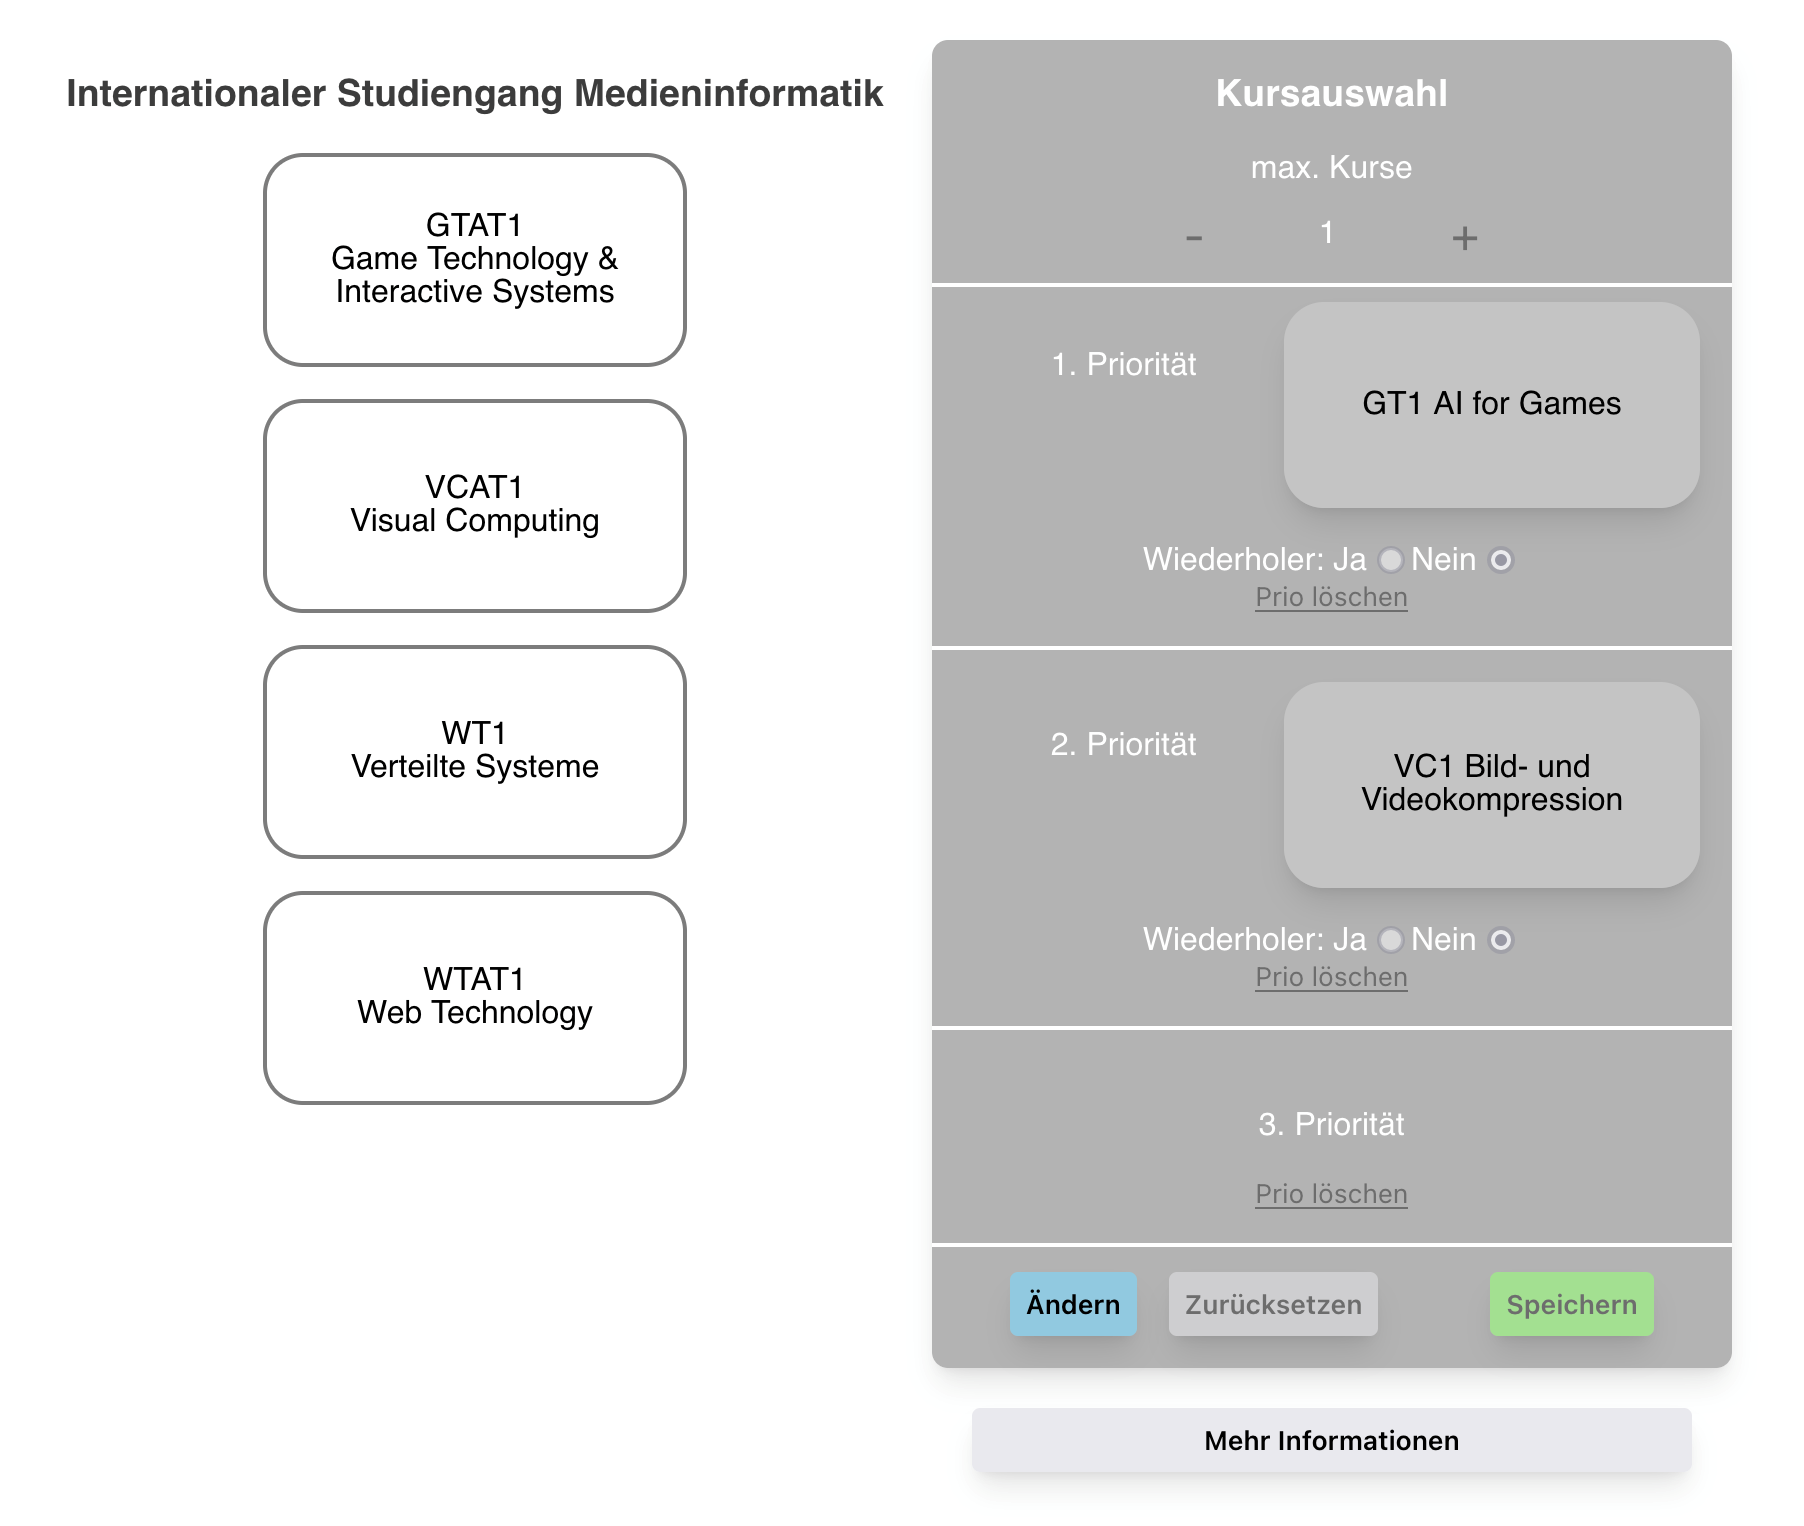
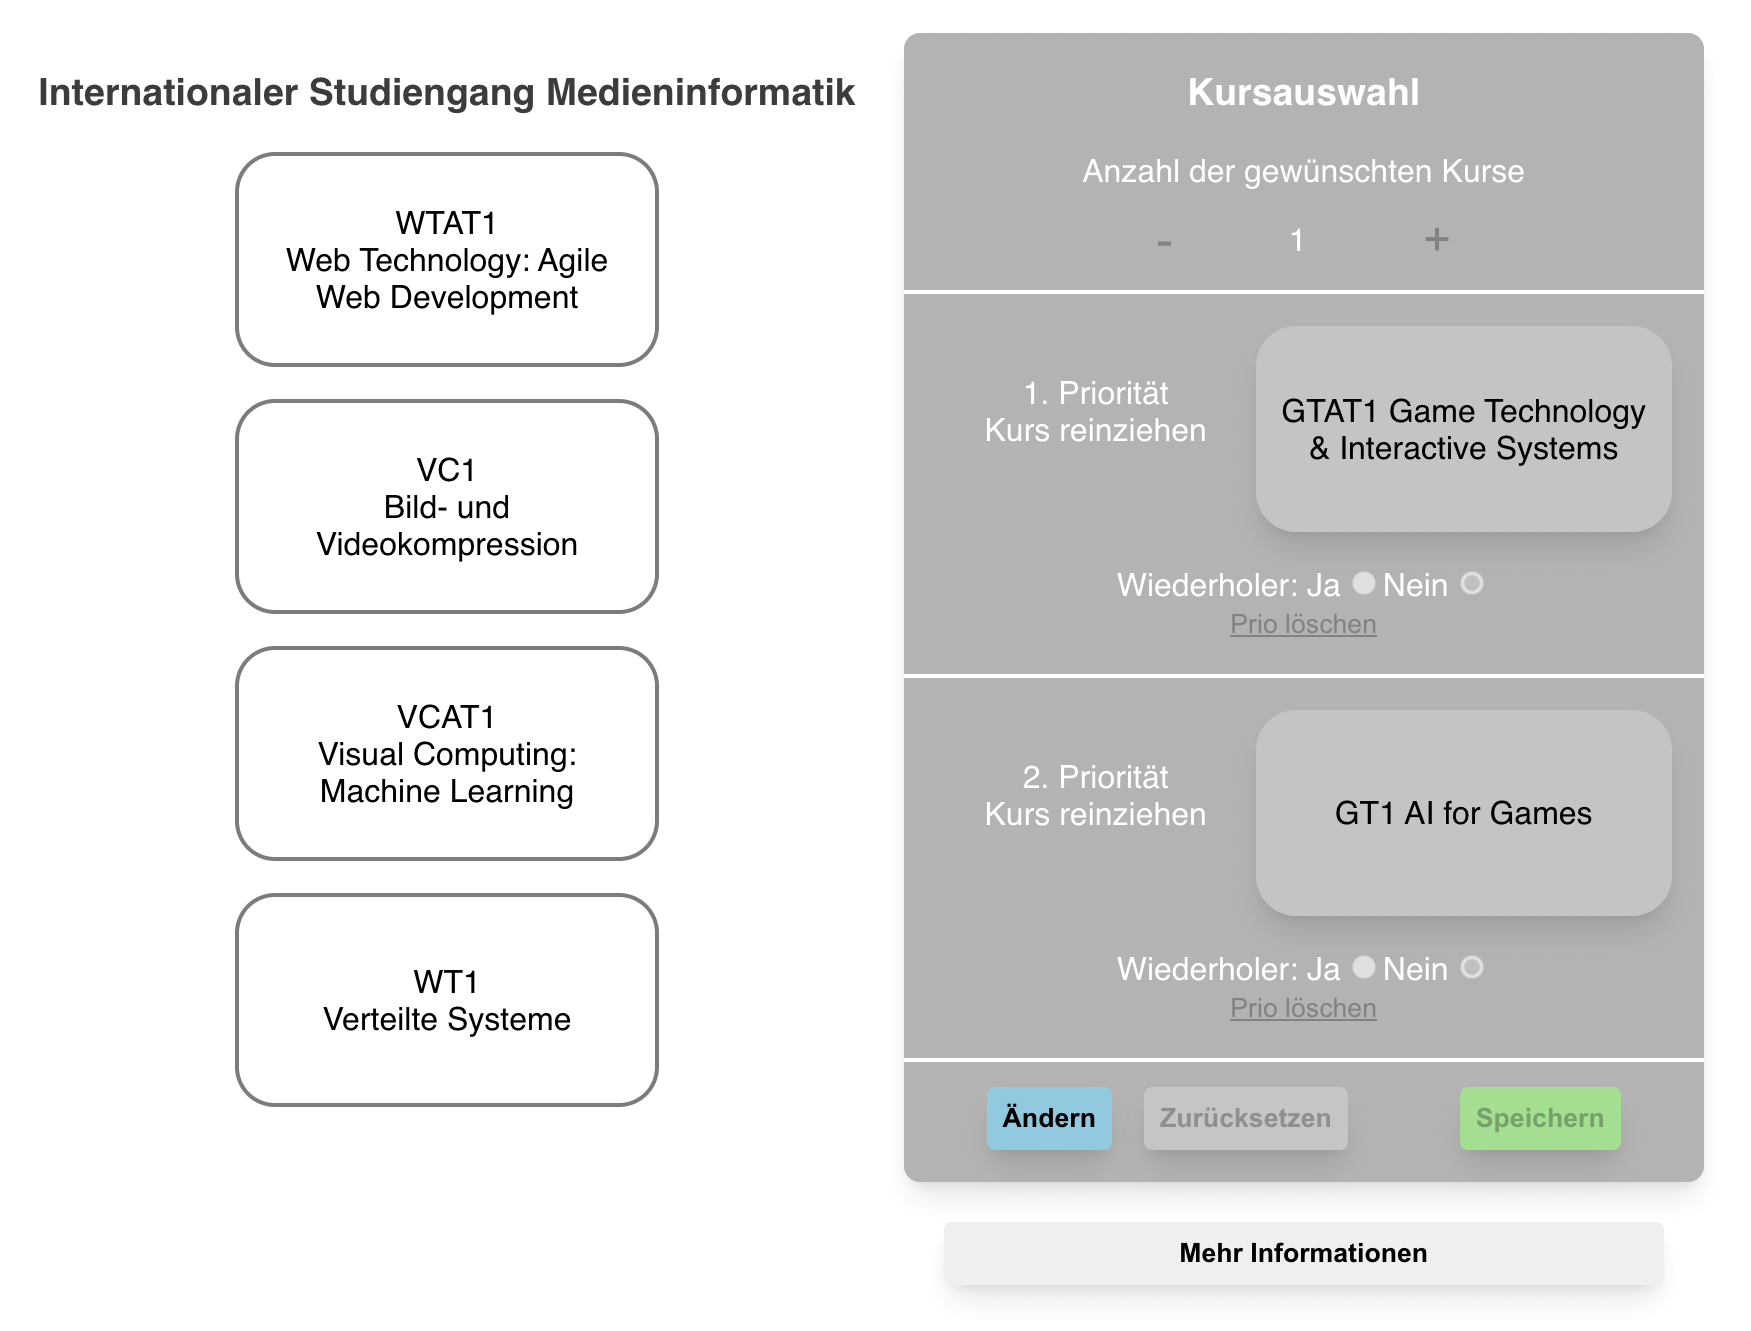
feedback Linh and Krist

diff --git a/content/ws21/bachelor/b4-bessere-wahlpflichtkursbelegung/features.md b/content/ws21/bachelor/b4-bessere-wahlpflichtkursbelegung/features.md
@@ -4,20 +4,23 @@ weight = 1
 +++
 
 {{<section title="Elective course registration">}}
-#### Priorities
-After thinking about what would be the best way to assign the courses to the students, so that the majority would be happy with it, we came up with a priority system. According to how much the students really want to attend specific courses, they can order their desired courses into different priorities. The higher the priority for a specific course is, the more likely it is for the student to get asigned to it. Because we liked the drag and drop functionality that was already provided in our code base and we wanted to be consistent with the usability of our application, we also implemented that for the course registration. By dragging the courses to the priority spaces, the students can create their individual list of priorities. This should prevent students from trying to sign up for too many courses, to have a greater selection at the end, since this leads to occupied spots for other students, which perhaps are being wasted at the end. 
+#### Ranking System (by HTW)
+The [ranking system](https://www.htw-berlin.de/studium/studienorganisation/kursbelegung/) provided by the HTW is still the most important set of rules that we had to follow and we could not change it for the course distribution. Although the ranking system might sound fair at first, the students from the higher ranks have the opportunity to receive courses without restriction. This could lead to people getting courses they only wanted as an insurance for the case that they do not get a different course, while other people do not get to attend it, even though it might have been the course they wanted the most. 
 
-#### Registration
-The [ranking system](https://www.htw-berlin.de/studium/studienorganisation/kursbelegung/) provided by the HTW is still the most important order that we had to follow and could not change for the course distribution. However, currently everyone who attends a course gets treated the same within these ranks. Although this might sound fair at first, it varies how much these students really want to attend this course. This could lead to people getting courses they only wanted as an insurance for the case that they dont get a different course, while other people dont get to attend it, even though it might have been the course they wanted the most. Thats why we use the priority system we came up with as soon as there are less free spaces in a course then registrations in the highest rank, where not everyone has been asigned already. The students have to choose a specifically desired amount of courses they want to attend, which also prevents them from choosing too many courses, while it also tries to give them this exact amount. This means, that the priorities should be chosen very consciously, because you cant be asigned for more courses than what you have specified. Currently, there is a [test run](https://studyplan.f4.htw-berlin.de) live where all the IMI students who would want to attend elective courses can participate in.
+#### Priorities
+So after thinking about what would be the best way to assign the courses to the students, so that the majority would be satisfied with it, we thought of a priority system. According to how much the students really want to attend specific courses, they can order their desired courses into different priorities. The higher the priority for a specific course is, the more likely it is for the student to get assigned to it. Particularly because the students also have to choose a desired amount of courses they want to attend, there will be more course spaces available, since it is not possible to get more courses than the desired amount. In addition, as soon as there are less free spaces in a course than registrations in the highest unassigned rank, those with the highest priorities are admitted immediately and the rest are drawn. \
+The students can then use our drag and drop method to create their own individual priority list. We chose this method, because we found it to be intuitive and wanted to remain consistent with the usability of our application. \
+\
+Currently, there is a [test run](https://studyplan.f4.htw-berlin.de) live where all the IMI students who would want to attend elective courses can participate in.
 {{</section>}}
 {{<image src="CourseSelection.png">}}
 
 {{<section title="Survey">}}
-After choosing your courses in either one of the phases, **you have the chance to give reasons for why you have applied for each one of them**. This is an optional feature though and not mandatory for the actual course registration. By showing which courses are more popular and why, this should also help professors to understand the students decision on the elective courses, which will also help to make future enrollments easier. There are five default options, that can be chosen by checkboxes and additionally you can also give a custom answer.
+After choosing your courses in either one of the phases, **you have the chance to give reasons for why you have applied for each one of them**. This is an optional feature though and not mandatory for the actual course registration. Having insight on which courses are more popular than others and why, will help professors in understanding the students choices as a collective, which will aid in making future enrolments easier. The answers you can give are provided in form of a survey with 5 default answers and the option to give a custom answer.
 {{</section>}}
 {{<image src="Survey.png">}}
 
 {{<section title="Organizing semesters">}}
-With the studyplan, that was originally created by Julia Zamaitat, we had a good code base for our project and were able to combine two great ideas related to course planning and organization onto one web application. At first, the studyplan was a **tool to get a good overview of which courses you want to attend in which semesters as an IMI student**. You can easily configure this plan for yourself by dragging and dropping the different courses into the desired semesters and even add new semesters. In case you forget what the default plan according to the study regulations looks like, you can simply check by choosing the "Plan nach Studienordnung" tab in the header of the site. Not only can you choose in which order you want to attend your courses, **you also get a detailed overview of each one of them, which shows you the course content, requirements, desired outcome and more**. You can even choose wether you have already registered or even passed them, which then shows you these specific courses in a different color in your studyplan. 
+With the studyplan, that was originally created by Julia Zamaitat, we had a good code base for our project and were able to combine two great ideas related to course planning and organization onto one web application. Originally, the studyplan was meant to be a **tool for receiving a good overview on which courses you want to attend for each semester**. You can easily configure the alignment of the courses by dragging them from their regular semester into others, and even add new rows of semesters. In case you forget what the intended default plan looked like, you can check by selecting the "Plan nach Studienordnung" tab in the navigation bar of the website. Not only can you align them in whichever order you wish, **you can also get detailed information over each one of them, including the course content, requirements, desired outcome and more**. Furthermore, in the same information window you can select whether you have already booked or passed them, which will change their color scheme in the studyplan view.
 {{</section>}}
 {{<image src="studyplan.png">}}

diff --git a/content/ws21/bachelor/b4-bessere-wahlpflichtkursbelegung/process.md b/content/ws21/bachelor/b4-bessere-wahlpflichtkursbelegung/process.md
@@ -36,7 +36,7 @@ The very first thing we had to do before actually starting to develop our projec
 Another very important step before starting to implement our ideas was to do some research for the algorithm we wanted to use and also clarify which legal matters we had to pay attention to. This included to find out if there are already existing algorithms we could use or modify to fit our circumstances and also talking to the administration of the HTW to clarify how much impact we would be allowed to have on the course distribution.
 
 #### Creating our App
-Once the foundational stuff was done, we could start working on the code all together. For that we created issues on GitHub during our weekly meetings and asigned them accordingly to everyones skills so we could make sure that our work is getting done as planned. During the weekly sprints we had after that, we always updated each other on our progress and thoughts that we have, while also being able to ask our team members if we would have any problems. 
+Once the foundational stuff was done, we could start working on the code all together. For that we created issues on GitHub during our weekly meetings and assigned them accordingly to everyones skills so we could make sure that our work is getting done as planned. During the weekly sprints we had after that, we always updated each other on our progress and thoughts that we have, while also being able to ask our team members if we would have any problems. 
 
 {{</section>}}  
 

diff --git a/content/ws21/bachelor/b4-bessere-wahlpflichtkursbelegung/future.md b/content/ws21/bachelor/b4-bessere-wahlpflichtkursbelegung/future.md
@@ -19,7 +19,7 @@ Instead of only being able to register for elective courses, the application can
 
 {{<section title="Forking information from reliable source">}}
 
-Currently, the students have to manually indicate information about them, so we have to rely on them being honest with their data. By getting the correct data like starting semester, increased priority or what they are studying, we **could make sure that the data is always correct and the user would not have to do less work** before starting to use our application. Besides that, the **course information could also be obtained from an official database**.
+Currently, the students have to manually indicate information about them, so we have to rely on them being honest with their data. By getting the correct data like starting semester, increased priority or what they are studying, we **could make sure that the data is always correct and the user would have to do less work** before starting to use our application. Besides that, the **course information could also be obtained from an official database**.
 
 {{</section>}}
 
